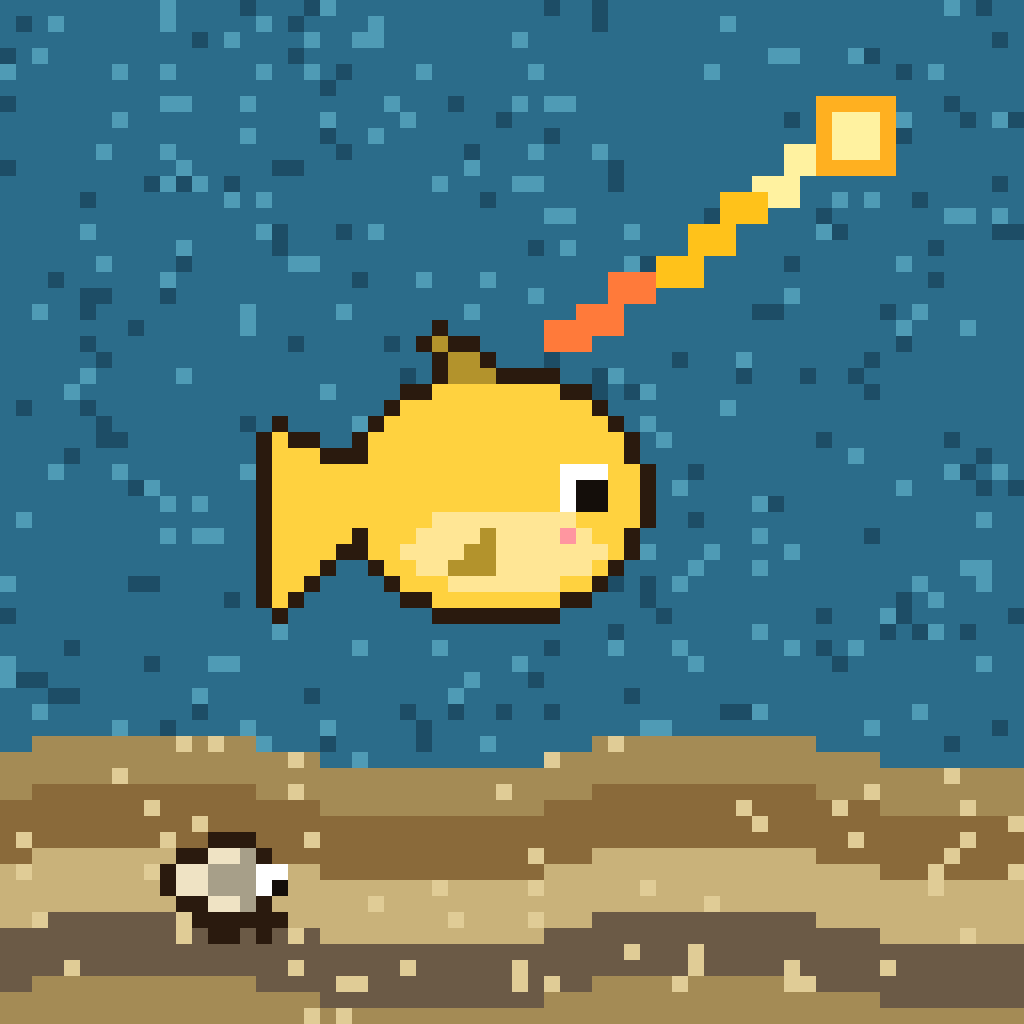
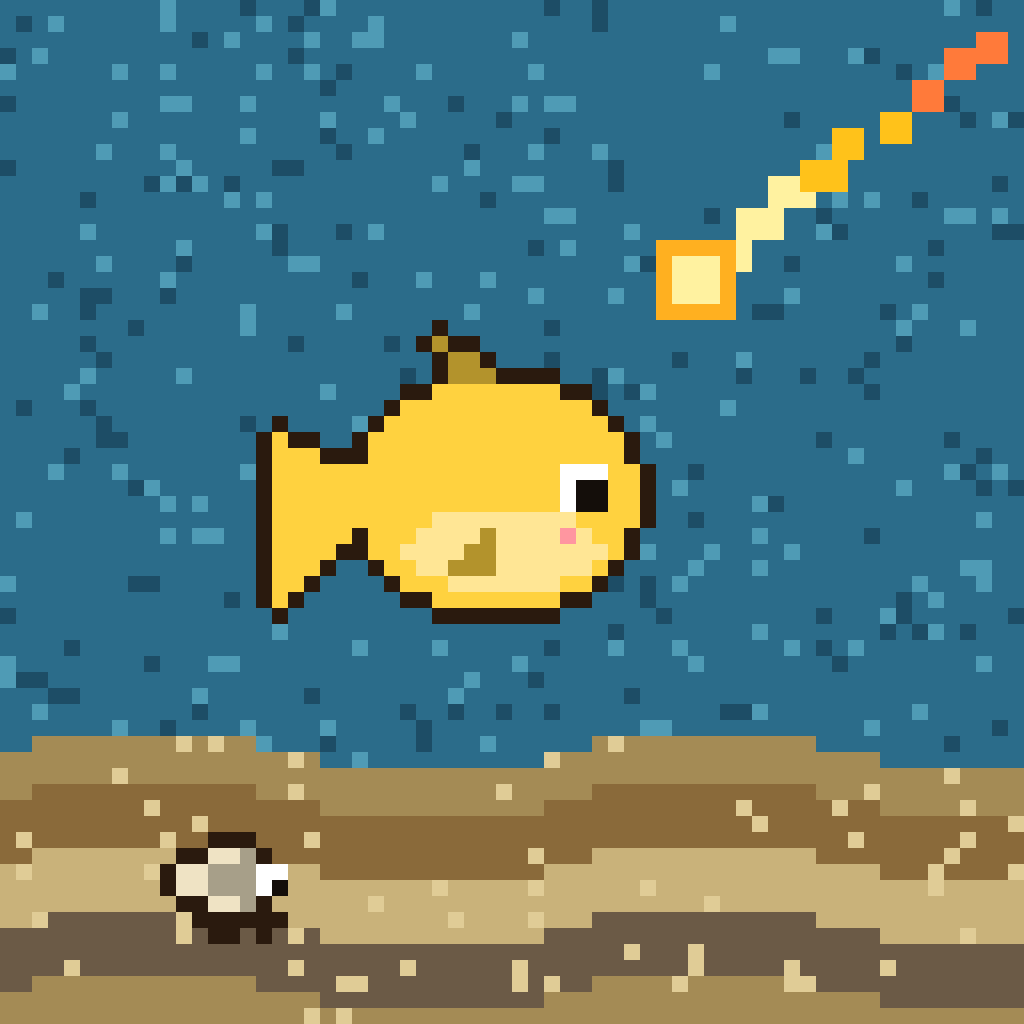
アイコンを案Aに決定（隕石を右上から落ちてくる向きに）
Claude-Session: https://claude.ai/code/session_01F9NUVPkYZzywjeYBhE75h1

Changed region(s): [[0.5312, 0.0312, 1.0, 0.3438]]

diff --git a/CLAUDE.md b/CLAUDE.md
@@ -25,7 +25,7 @@
 - アイコン `icon.png`（1024・ドット絵64マスを16倍）、起動画面 `splash.png`（2732）。どちらもゲームの spr() で描いた。
 
 ## 状況
-- 11/27：箱（このリポジトリ）を作成。game.html β0.1（2026-11-27 の公開版から）・ビルド設定・アイコン仮（案A：地層と海と隕石）・起動画面。
+- 11/27：箱（このリポジトリ）を作成。game.html β0.1（2026-11-27 の公開版から）・ビルド設定・アイコン案A（地層と海、右上から隕石が落ちてくる。11/27 かいと決定）・起動画面。
 - かいとの残り：Apple Developer でアプリID登録 → App Store Connect で新規App → Codemagic にこのリポジトリをつなぐ → 最初のビルド → Play Console で新規アプリ＋クローズドテスト。
 - 友達テスト：3〜5人・iOS と Android のクローズドテスト。ランキングは試さない。Play で一般公開するには、このアプリで12人以上が14日続けてクローズドテストに参加している必要がある（アプリごと）。
 - 「感想を送る」のGoogleフォームは、かいとが作ったら FEEDBACK_URL に入れる。
